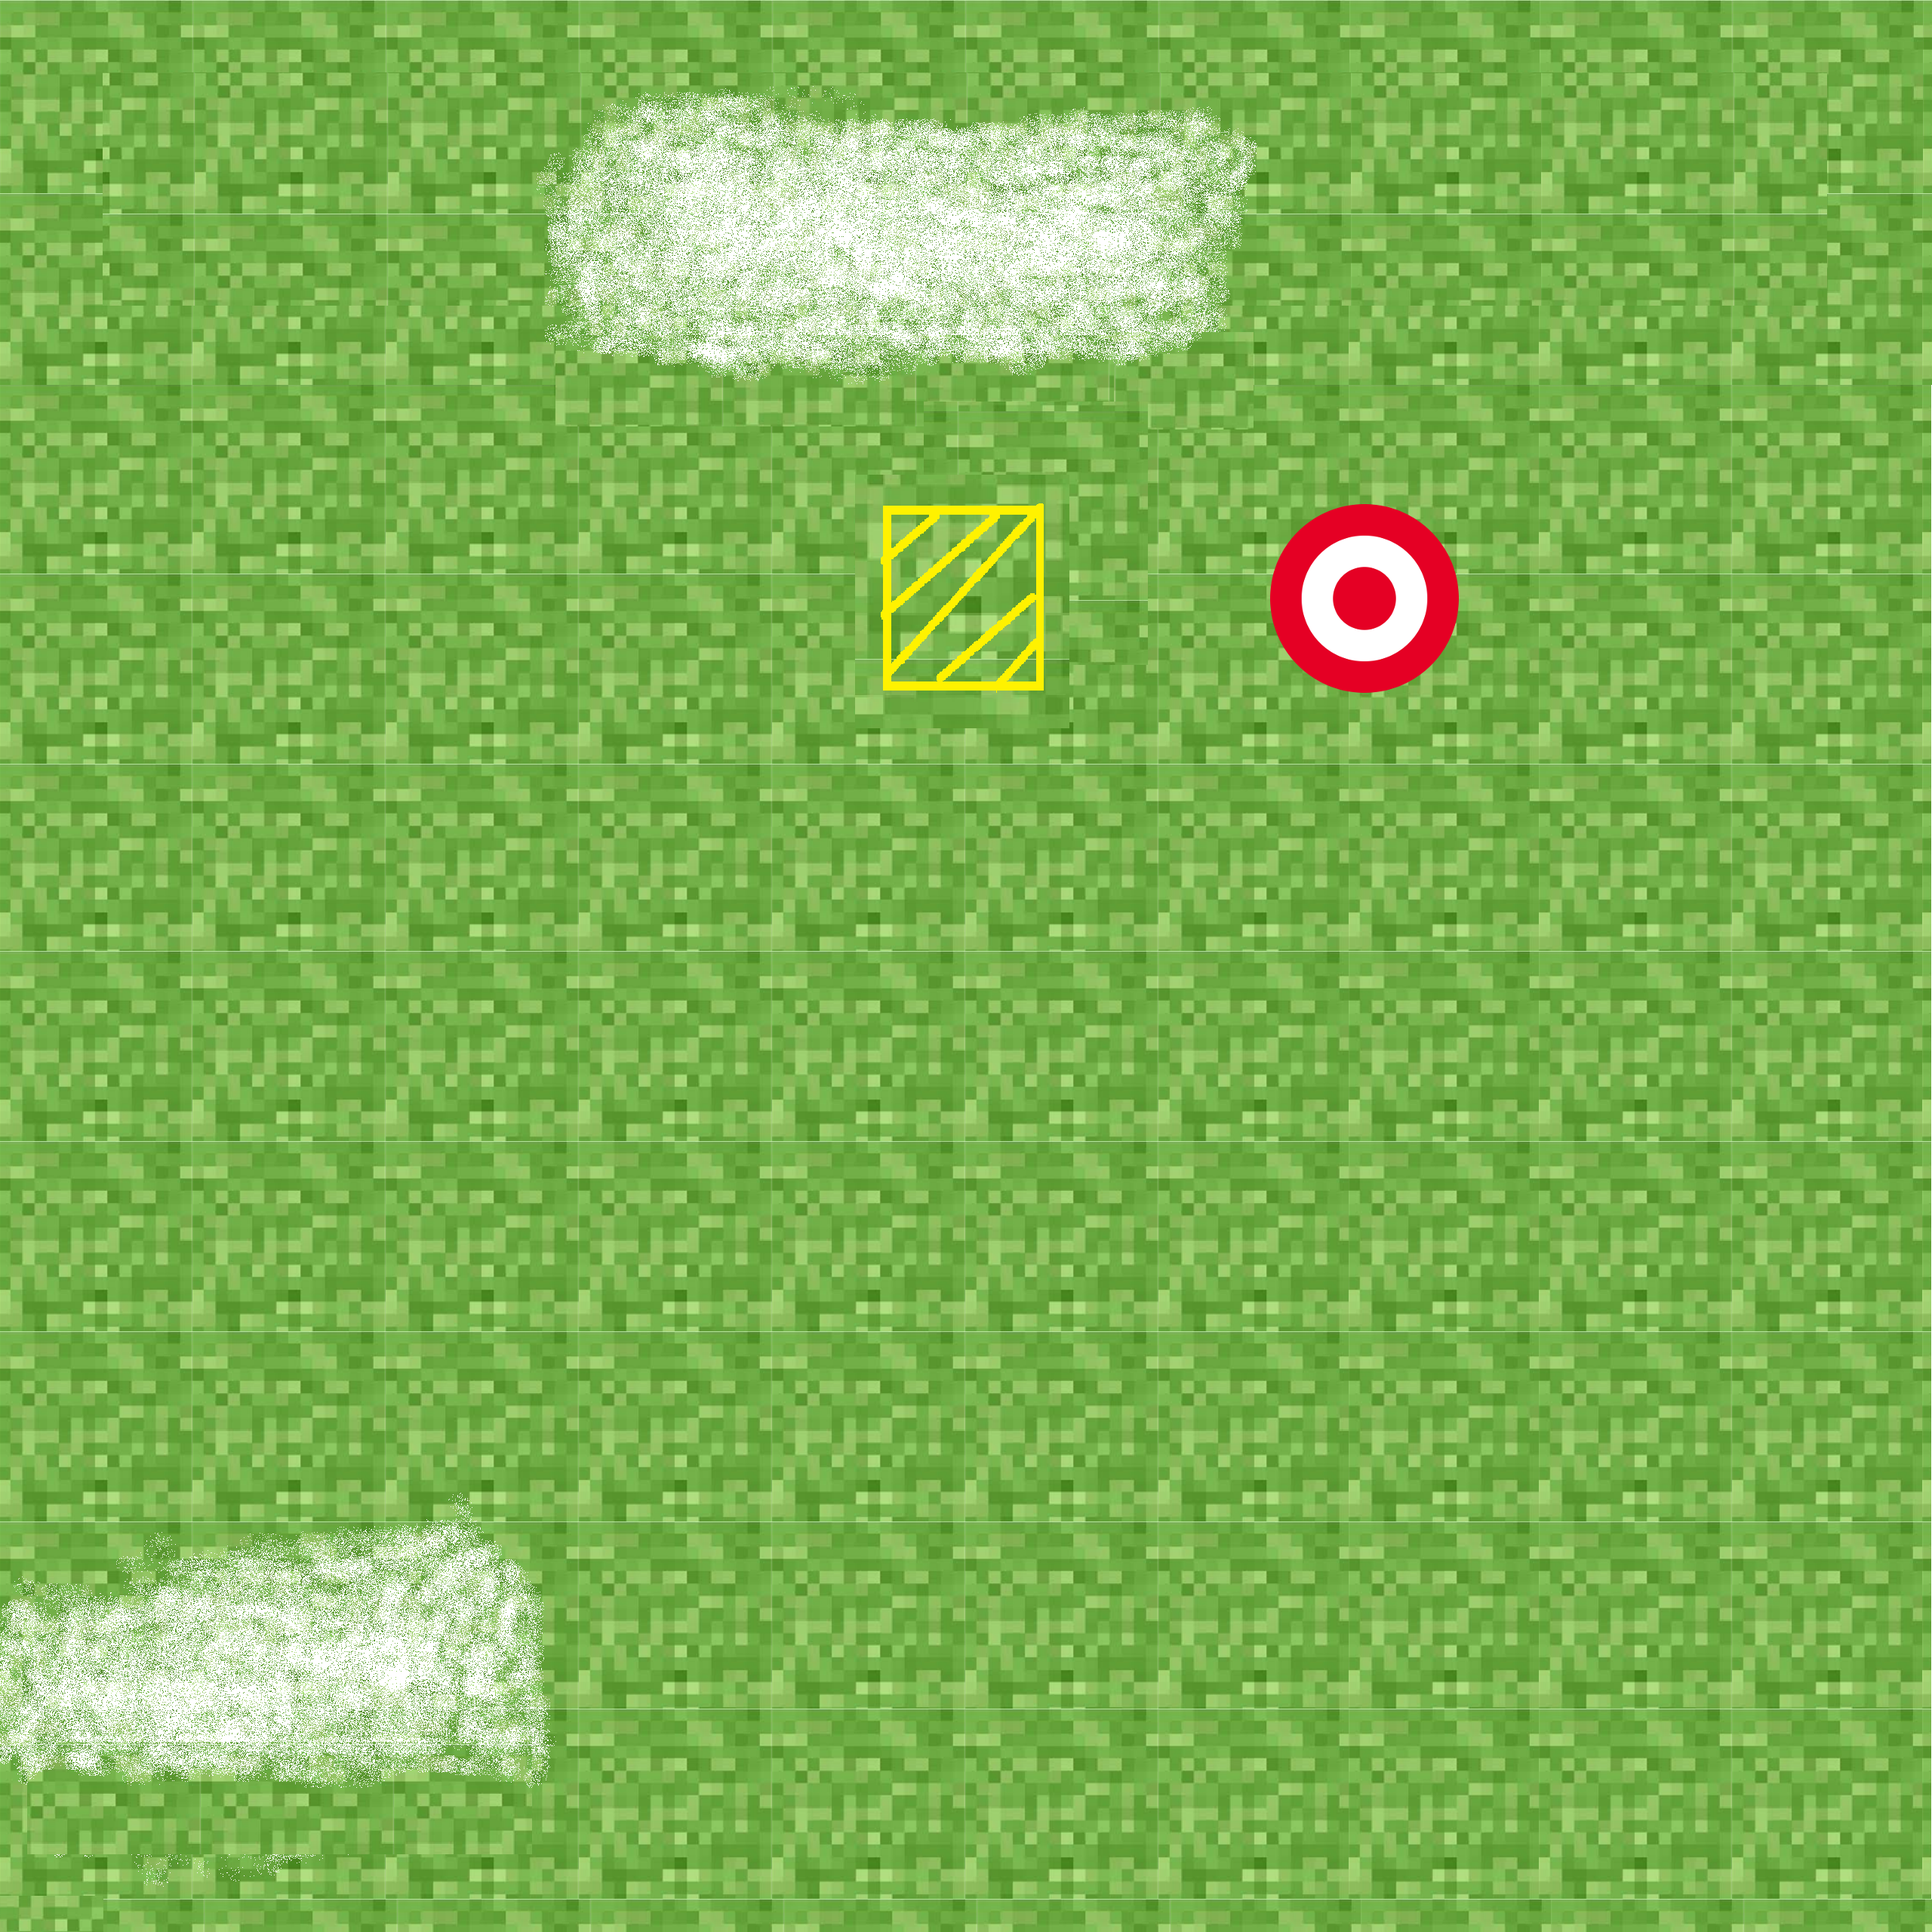
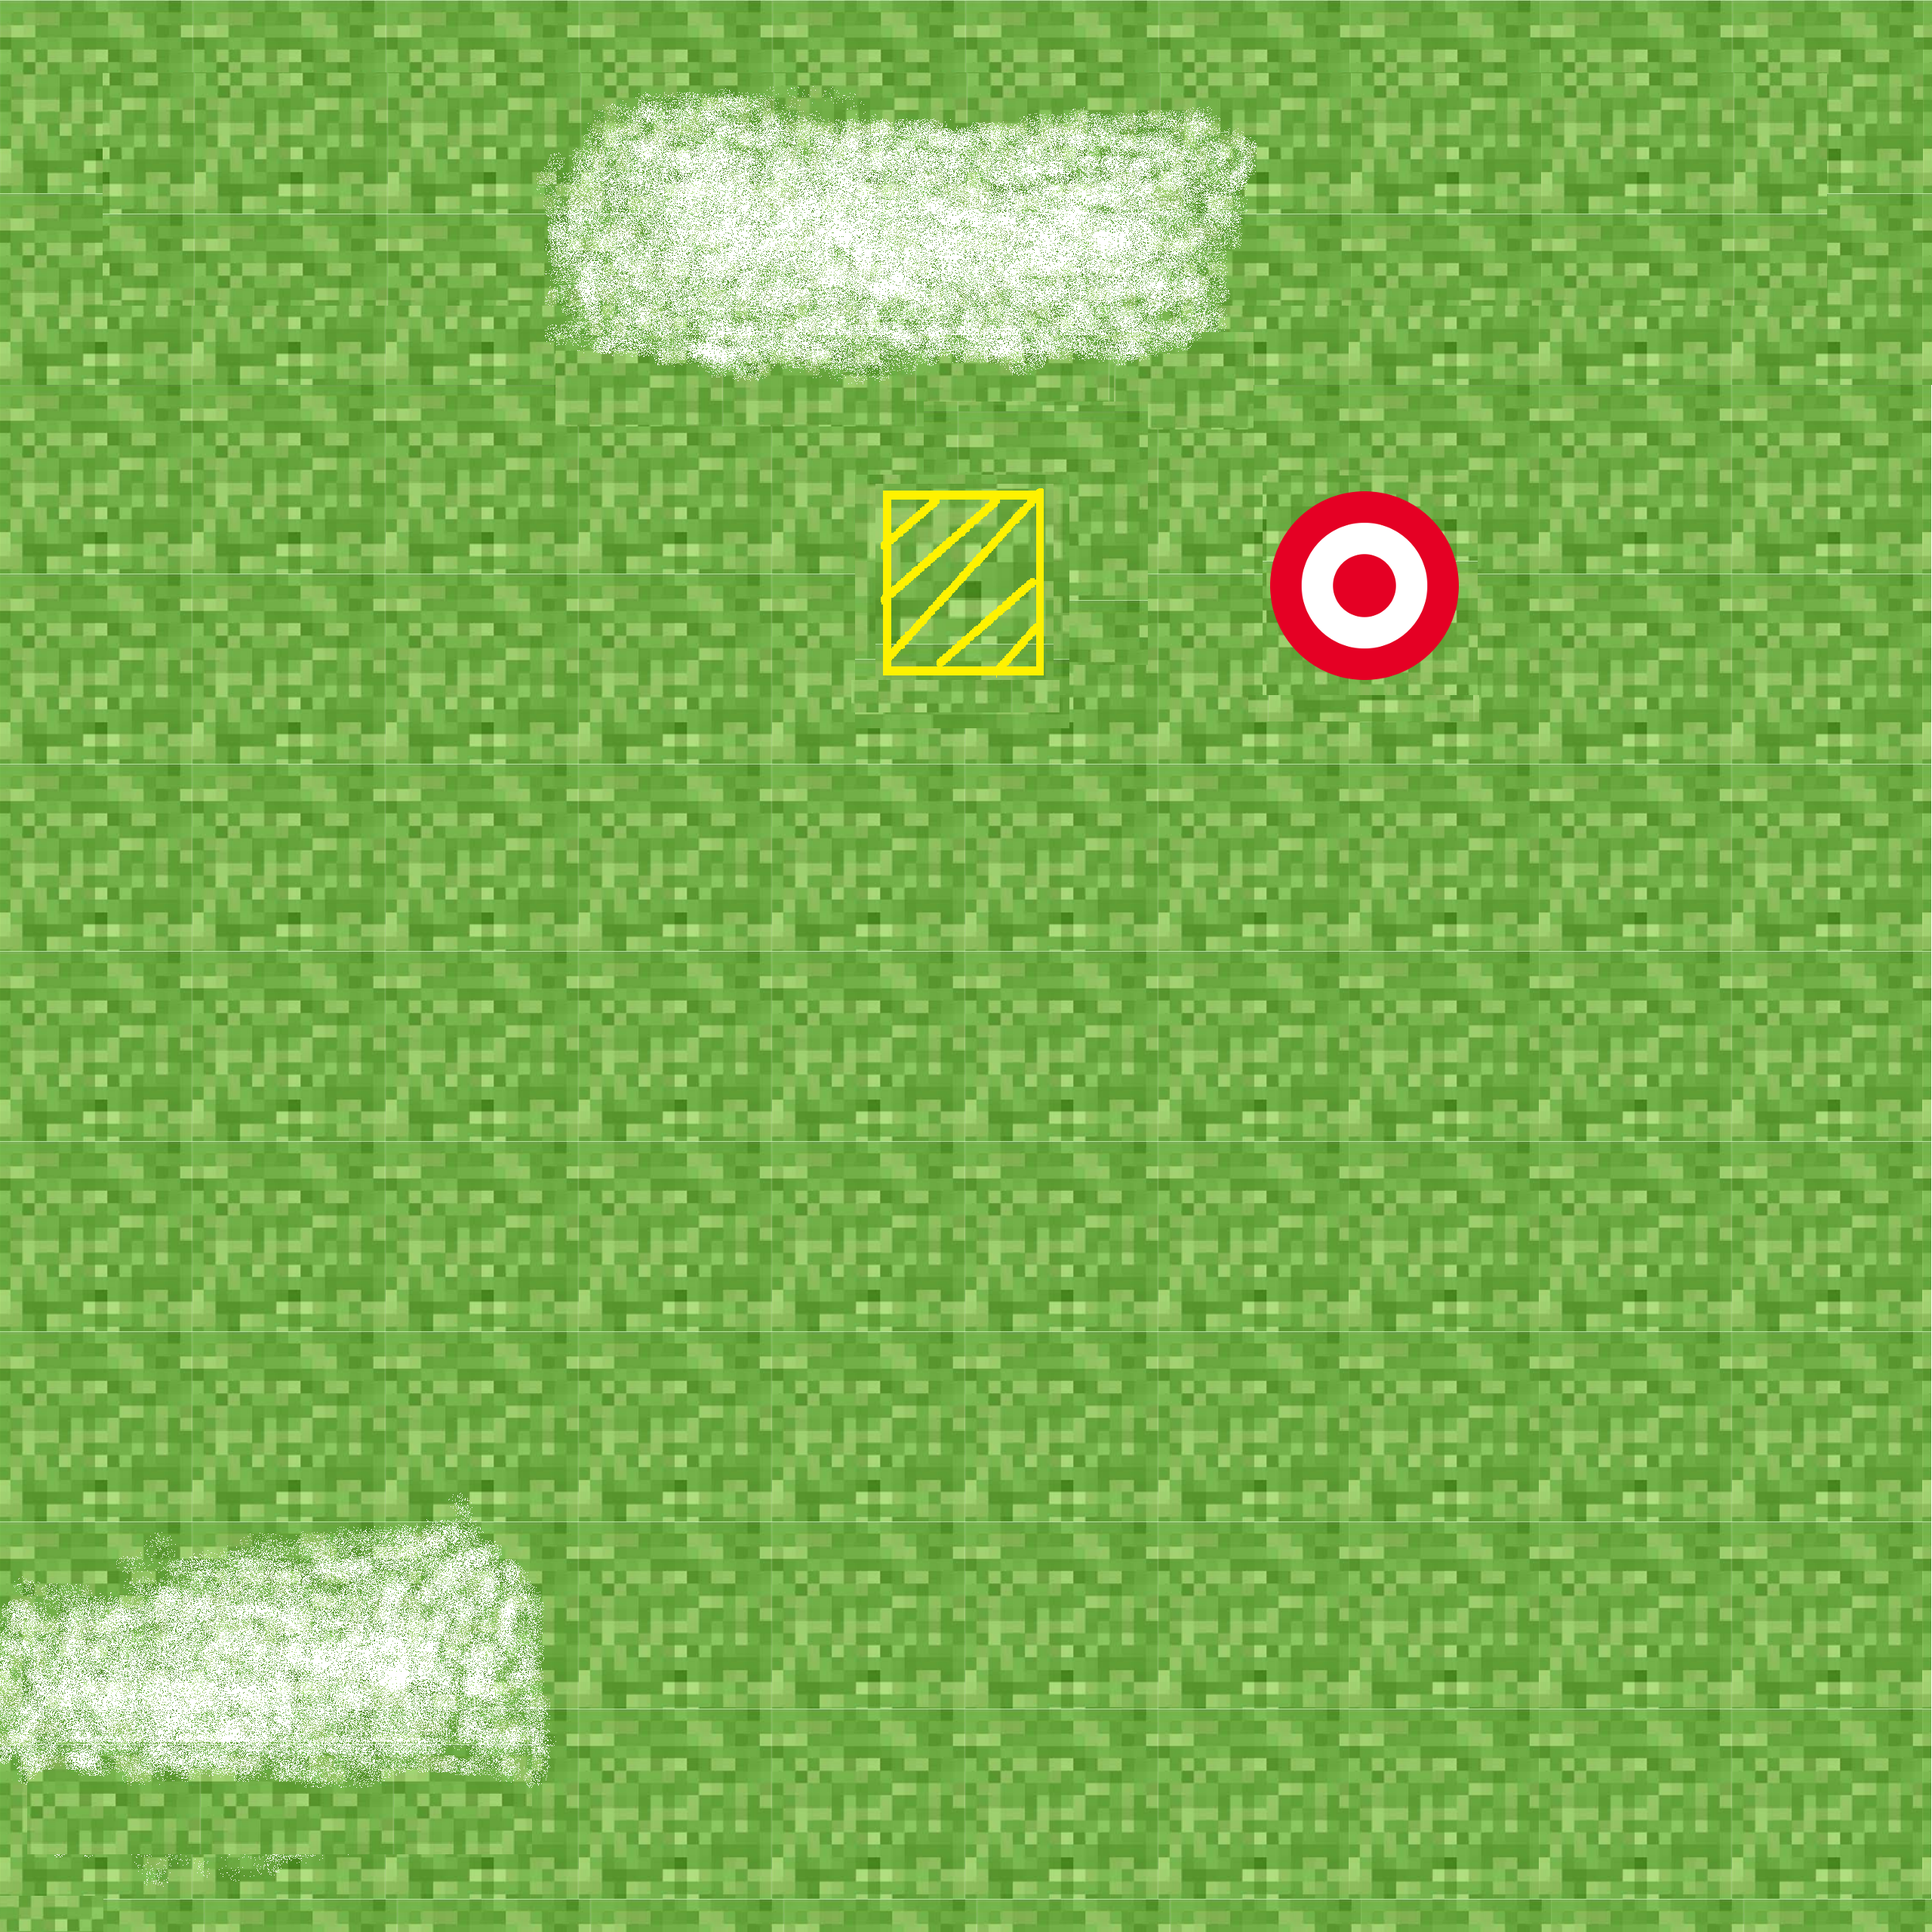
Finished (?)

Changed region(s): [[0.6562, 0.25, 0.7812, 0.375], [0.4375, 0.25, 0.5625, 0.375]]

diff --git a/Projeto/src/LightingScene.js b/Projeto/src/LightingScene.js
@@ -13,28 +13,28 @@ class LightingScene extends CGFscene
 		if (this.gui.isKeyPressed("KeyW")){
 			text+=" W ";
 			keysPressed=true;
-			this.vehicle.moveForward();
+			this.vehicle.moveForward(this.deltaTime);
 		}
 		if (this.gui.isKeyPressed("KeyS")){
 			text+=" S ";
 			keysPressed=true;
-			this.vehicle.moveBackward();
+			this.vehicle.moveBackward(this.deltaTime);
 		}
 		if (this.gui.isKeyPressed("KeyA")){
 			text+=" A ";
 			keysPressed=true;
 
-			this.vehicle.moveLeft();
+			this.vehicle.moveLeft(this.deltaTime);
 		}
 		if (this.gui.isKeyPressed("KeyD")){
 			text+=" D ";
 			keysPressed=true;
-			this.vehicle.moveRight();
+			this.vehicle.moveRight(this.deltaTime);
 		}
 		if (this.gui.isKeyPressed("KeyG")){
 			text+=" G ";
 			keysPressed=true;
-			if (this.vehicle.x >= -1 && this.vehicle.x <=1 && this.vehicle.z <= -8 && this.vehicle.z >=-10){ {}
+			if (this.vehicle.x >= -1 && this.vehicle.x <=1 && this.vehicle.z <= -9 && this.vehicle.z >=-11){ {}
 			this.crane.animate(this.vehicle);
 			this.vehicleGrab = 1;
 			this.lock = true;
@@ -112,8 +112,9 @@ class LightingScene extends CGFscene
 		this.axisDisplay = function(){
 		this.axisOn = !(this.axisOn);
 		};
-
-		this.setUpdatePeriod(100);
+		
+		this.firstTime = 1;
+		this.setUpdatePeriod(1000 * 1/100);
 	};
 
 	initCameras()
@@ -152,11 +153,24 @@ class LightingScene extends CGFscene
 	};
 
 	update(currTime) {
-		if (!this.lock)
+
+		var time = Math.floor(currTime/1000);
+
+		if(this.firstTime == 1){
+      this.lastTime = currTime;
+      this.firstTime=0;
+    	}
+
+    if(this.firstTime==0){
+      this.lastTime = this.lastTime;
+      this.deltaTime = currTime - this.lastTime;
+      this.lastTime = currTime;
+      if (!this.lock)
 		this.checkKeys();
 		this.vehicle.update();
-		this.crane.update();
-		this.terrain.update();
+			this.crane.update();
+			this.terrain.update();
+    }		
 	}
 
 	updateLights()
@@ -201,7 +215,6 @@ class LightingScene extends CGFscene
 
 		// Update all lights used
 		this.updateLights();
-		this.update();
 
 		// Draw axis
 		if (this.axisOn)

diff --git a/Projeto/src/MyVehicle.js b/Projeto/src/MyVehicle.js
@@ -55,35 +55,44 @@ class MyVehicle extends CGFobject
 	this.frontWheel.setRotateWheel(this.rotateWheel);
 	this.backWheel.setRotateWheel(this.rotateWheel);
 
-	if (this.wheelAngle > 0)
-	this.wheelAngle -= Math.PI/300.0;
+	if (this.wheelAngle >0)
+	this.wheelAngle -= Math.PI/200.0;
 	else if (this.wheelAngle < 0)
-	this.wheelAngle += Math.PI/300.0;
+	this.wheelAngle += Math.PI/200.0;
+
+	if (this.wheelAngle <  Math.PI/100.0 && this.wheelAngle > - Math.PI/100.0)
+		this.wheelAngle = 0;
 
 	this.frontWheel.setAngle(this.wheelAngle);
 	this.carOrientation = this.carOrientation + (this.speed * this.wheelAngle)/5.0;
 	};
 
-	moveForward(){
-		if (this.speed <0.5)
-			this.speed = this.speed + 50/10000;
+	moveForward(deltaTime){
+
+		let time = deltaTime/1000;
+		if(this.speed <0.3)
+		this.speed = this.speed + time/2;
 	}
 
-	moveBackward(){
-		if (this.speed > -0.5)
-			this.speed = this.speed - 50/10000;
+	moveBackward(deltaTime){
+		let time = deltaTime/1000;
+
+		if (this.speed > -0.3)
+			this.speed = this.speed - time/2;
 	}
 
-	moveLeft(){
-		if (this.wheelAngle+ Math.PI/30.0  <= Math.PI/3.0 && this.wheelAngle + Math.PI/30.0 >= -Math.PI/3.0 ){ //60 degrees
-	this.wheelAngle = this.wheelAngle + Math.PI/30.0;
+	moveLeft(deltaTime){
+		let time = deltaTime/1000;
+		if (this.wheelAngle<= Math.PI/3.0 && this.wheelAngle >= -Math.PI/3.0 ){ //60 degrees
+	this.wheelAngle = this.wheelAngle + time*Math.PI;
 	this.frontWheel.setAngle(this.wheelAngle);
 		}
 	}
 
-	moveRight(){
-		if (this.wheelAngle - Math.PI/30.0 <= Math.PI/3.0 && this.wheelAngle - Math.PI/30.0 >= - Math.PI/3.0){ //60 degrees
-	this.wheelAngle = this.wheelAngle - Math.PI/30.0;
+	moveRight(deltaTime){
+		let time = deltaTime/1000;
+		if (this.wheelAngle <= Math.PI/3.0 && this.wheelAngle >= - Math.PI/3.0){ //60 degrees
+	this.wheelAngle = this.wheelAngle - time * Math.PI;
 	this.frontWheel.setAngle(this.wheelAngle);
 		}
 	}
